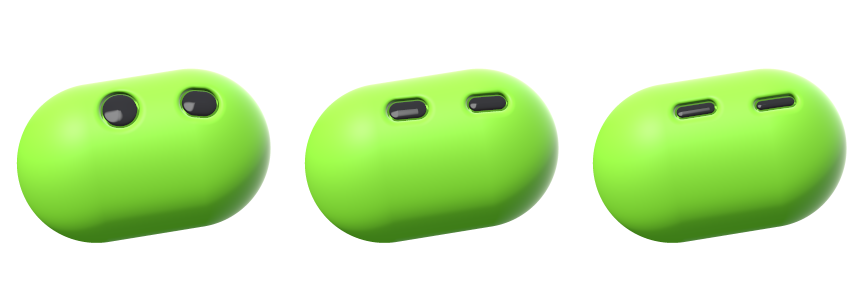
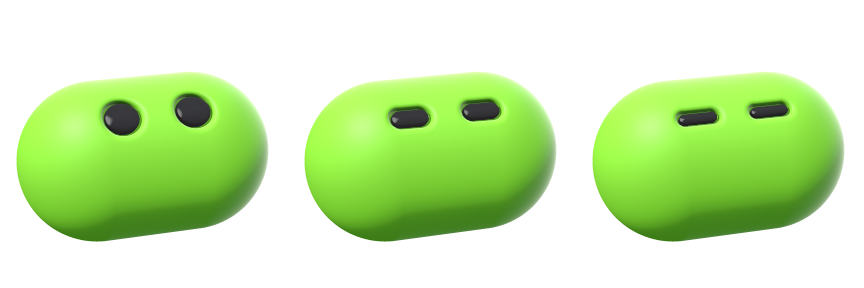
design: smooth eye-type changes and recentre the working pose
Capsule eyes now close into a flat line that bends into the arc, instead
of one pair shrinking away and another growing in. The working pose is a
small upward glance centred on the face, so it stays on every solid.

Claude-Session: https://claude.ai/code/session_01B2M2dkRa7sFVZNYr2Rst2G

diff --git a/design/multi-otto/faces/src/face.js b/design/multi-otto/faces/src/face.js
@@ -7,7 +7,7 @@ uniform vec3 ALBEDO, POSE;    // POSE: pitch, yaw, roll
 uniform vec4 E0, E1;          // eye: x, y, tilt, half length
 uniform vec2 ER;              // eye radii
 uniform vec2 EO;              // per-solid eye offset
-uniform float B, MORPH, RES;  // blink 0 open to 1 closed; SHAPE to SHAPE2; canvas size in pixels
+uniform float B, MORPH, RES, BEND;  // blink 0 open to 1 closed; SHAPE to SHAPE2; canvas size in pixels
 out vec4 o;
 
 const float HALF = 1.;        // canvas half width: the 100-unit face box is 2.0 wide
@@ -52,7 +52,7 @@ float eye1(vec2 p, vec4 e, float r) {
   vec2 q = p - e.xy;
   float a = e.z * (1. - B), c = cos(a), s = sin(a);   // a closing eye levels out, flattens and widens a little
   q = vec2(c * q.x + s * q.y, -s * q.x + c * q.y);
-  if (ARC != 0) { q.y *= float(ARC); return arc(q, e.w, .075, r); }
+  if (ARC != 0) { q.y *= float(ARC); return arc(q, e.w, max(.075 * BEND, .001), r); }
   vec2 h = mix(vec2(r, e.w + r), vec2(r * 1.25, (e.w + r) * .2), B);
   float rc = min(h.x, h.y);
   vec2 d = abs(q) - h + rc;
@@ -160,7 +160,7 @@ const eye = (x, y, tilt, half) => [...u(x, y), tilt * Math.PI / 180, half];
 const FACE_STATES = {
   //        eyes                                                   radii          arc  pose nudge (pitch, yaw, roll)
   rest:    [eye(37, 51, 0, .09),   eye(63, 51, 0, .09),            [.1, .1],      0, [0, 0, 0]],
-  working: [eye(44, 38, -26, .08), eye(70, 40, -26, .04),          [.1, .1],      0, [-.08, .28, 0]],
+  working: [eye(39, 45, -8, .08),  eye(63, 45, -8, .08),           [.1, .1],      0, [.1, .1, 0]],
   needs:   [eye(36, 51, 0, .17),   eye(64, 51, 0, .17),            [.12, .12],    0, [-.1, 0, 0]],
   asleep:  [eye(37, 52, 0, .14),   eye(63, 52, 0, .14),            [.05, .05],   -1, [.14, 0, -.1]],
   gpt:     [eye(37, 53, 0, .14),   eye(63, 53, 0, .14),            [.058, .058],  1, [0, -.14, .05]],
@@ -170,11 +170,9 @@ const FACE_STATES = {
 function faceParams(who, state) {
   const [shape, albedo, pitch, yaw, roll, solidEyes] = FACE_SOLIDS[who];
   const [e0, e1, er, arc, stateNudge] = FACE_STATES[state];
-  let nudge = stateNudge, eo = solidEyes;
+  let nudge = stateNudge;
   if (who === 'inbox') nudge = nudge.map(n => n * .4);
-  if (who === 'inbox' && state === 'working') eo = [-.03, -.14];   // the glance up stays on the flat face, clear of the top edge
-  if (who === 'fares' && state === 'working') eo = [-.04, -.02];   // these eyes already sit high; the diamond narrows there
-  return { shape, albedo: albedo.map(v => Math.pow(v / 255, 2.2)), pose: [pitch + nudge[0], yaw + nudge[1], roll + nudge[2]], e0, e1, er, arc, eo };
+  return { shape, albedo: albedo.map(v => Math.pow(v / 255, 2.2)), pose: [pitch + nudge[0], yaw + nudge[1], roll + nudge[2]], e0, e1, er, arc, eo: solidEyes };
 }
 
 function faceRenderer(canvas) {
@@ -198,7 +196,7 @@ void main(){ gl_Position = vec4(vec2[3](vec2(-1,-1),vec2(3,-1),vec2(-1,3))[gl_Ve
     gl.uniform3f(U('ALBEDO'), ...p.albedo); gl.uniform3f(U('POSE'), ...p.pose);
     gl.uniform4f(U('E0'), ...p.e0); gl.uniform4f(U('E1'), ...p.e1);
     gl.uniform2f(U('ER'), ...p.er); gl.uniform2f(U('EO'), ...p.eo);
-    gl.uniform1f(U('B'), p.B || 0); gl.uniform1f(U('MORPH'), p.morph || 0); gl.uniform1f(U('RES'), canvas.width);
+    gl.uniform1f(U('B'), p.B || 0); gl.uniform1f(U('MORPH'), p.morph || 0); gl.uniform1f(U('RES'), canvas.width); gl.uniform1f(U('BEND'), p.bend ?? 1);
     gl.drawArrays(gl.TRIANGLES, 0, 3);
     gl.finish();
   };

diff --git a/design/multi-otto/faces/src/live.js b/design/multi-otto/faces/src/live.js
@@ -9,10 +9,20 @@
   const TWEEN = calm ? 1 : 340, BLINK = 240;
   const lerp = (a, b, k) => a.map((v, i) => v + (b[i] - v) * k);
   const ease = x => 1 - Math.pow(1 - x, 3);
+  const smooth = x => x * x * (3 - 2 * x);
 
   let who = 'otto', state = 'rest';
-  let from = faceParams(who, state), to = from, t0 = -1e9, blinkAt = -1e9;
+  const target = () => ({ ...faceParams(who, state), close: 0, bend: 1 });
+  let from = target(), to = from, t0 = -1e9, blinkAt = -1e9;
   let orbit = [0, 0], drag = null, raf = 0, seen = true, motionSamples = 2;
+
+  // the flat line both eye types pass through, sized to match a fully closed capsule exactly
+  const flatLine = i => {
+    const cap = from.arc === 0 ? from : to.arc === 0 ? to : null, s = cap || from, half = s[`e${i}`][3], r = s.er[i];
+    if (!cap) return { w: half, r };
+    const h = (half + r) * .2;
+    return { w: r * 1.25 - h, r: h };
+  };
 
   const at = now => {
     const p = Math.min(1, (now - t0) / TWEEN), k = ease(p), blink = (now - blinkAt) / BLINK;
@@ -22,12 +32,21 @@
     v.morph = from.shape === to.shape ? 0 : k;
     if (from.arc === to.arc) {
       v.e0 = lerp(from.e0, to.e0, k); v.e1 = lerp(from.e1, to.e1, k); v.er = lerp(from.er, to.er, k); v.arc = to.arc;
-    } else {                                  // capsules and arcs can't blend: one pair shrinks away, the other grows in
-      const leaving = p < .5, q = ease(leaving ? p * 2 : p * 2 - 1), s = leaving ? from : to;
-      v.e0 = s.e0; v.e1 = s.e1; v.er = s.er.map(r => r * (leaving ? 1 - q : q)); v.arc = s.arc;
+      v.close = from.close * (1 - k); v.bend = from.bend + (1 - from.bend) * k;
+    } else {                                  // the eye goes through a flat line: a capsule closes into it, an arc straightens into it
+      const s = smooth(p), out = s < .5, q = out ? s * 2 : s * 2 - 1, side = out ? from : to, t = out ? q : 1 - q, isArc = side.arc !== 0;
+      v.er = [0, 0];
+      for (const i of [0, 1]) {
+        const key = `e${i}`, e = side[key], line = flatLine(i), xy = lerp(from[key].slice(0, 2), to[key].slice(0, 2), s);
+        v[key] = [...xy, e[2], isArc ? e[3] + (line.w - e[3]) * t : e[3]];
+        v.er[i] = isArc ? side.er[i] + (line.r - side.er[i]) * t : side.er[i];
+      }
+      v.arc = side.arc;
+      v.close = isArc ? 0 : out ? from.close + (1 - from.close) * q : 1 - q;
+      v.bend = !isArc ? 1 : out ? from.bend * (1 - q) : q;
     }
     const blinking = blink >= 0 && blink < 1;
-    v.B = blinking && v.arc === 0 ? Math.sin(Math.PI * blink) : 0;
+    v.B = Math.max(v.close, blinking && v.arc === 0 ? Math.sin(Math.PI * blink) : 0);
     return { v, busy: p < 1 || blinking };
   };
 
@@ -48,7 +67,7 @@
   const go = () => {
     const now = performance.now(), { v } = at(now);
     from = { ...v, shape: v.morph > .5 ? v.shape2 : v.shape };   // carry on from what's on screen, including any turn
-    to = faceParams(who, state); t0 = now; orbit = [0, 0];
+    to = target(); t0 = now; orbit = [0, 0];
     press('data-face', who); press('data-pose', state);
     canvas.setAttribute('aria-label', `${label('data-face')}, ${label('data-pose')}`);
     blinkBtn.disabled = to.arc !== 0;
